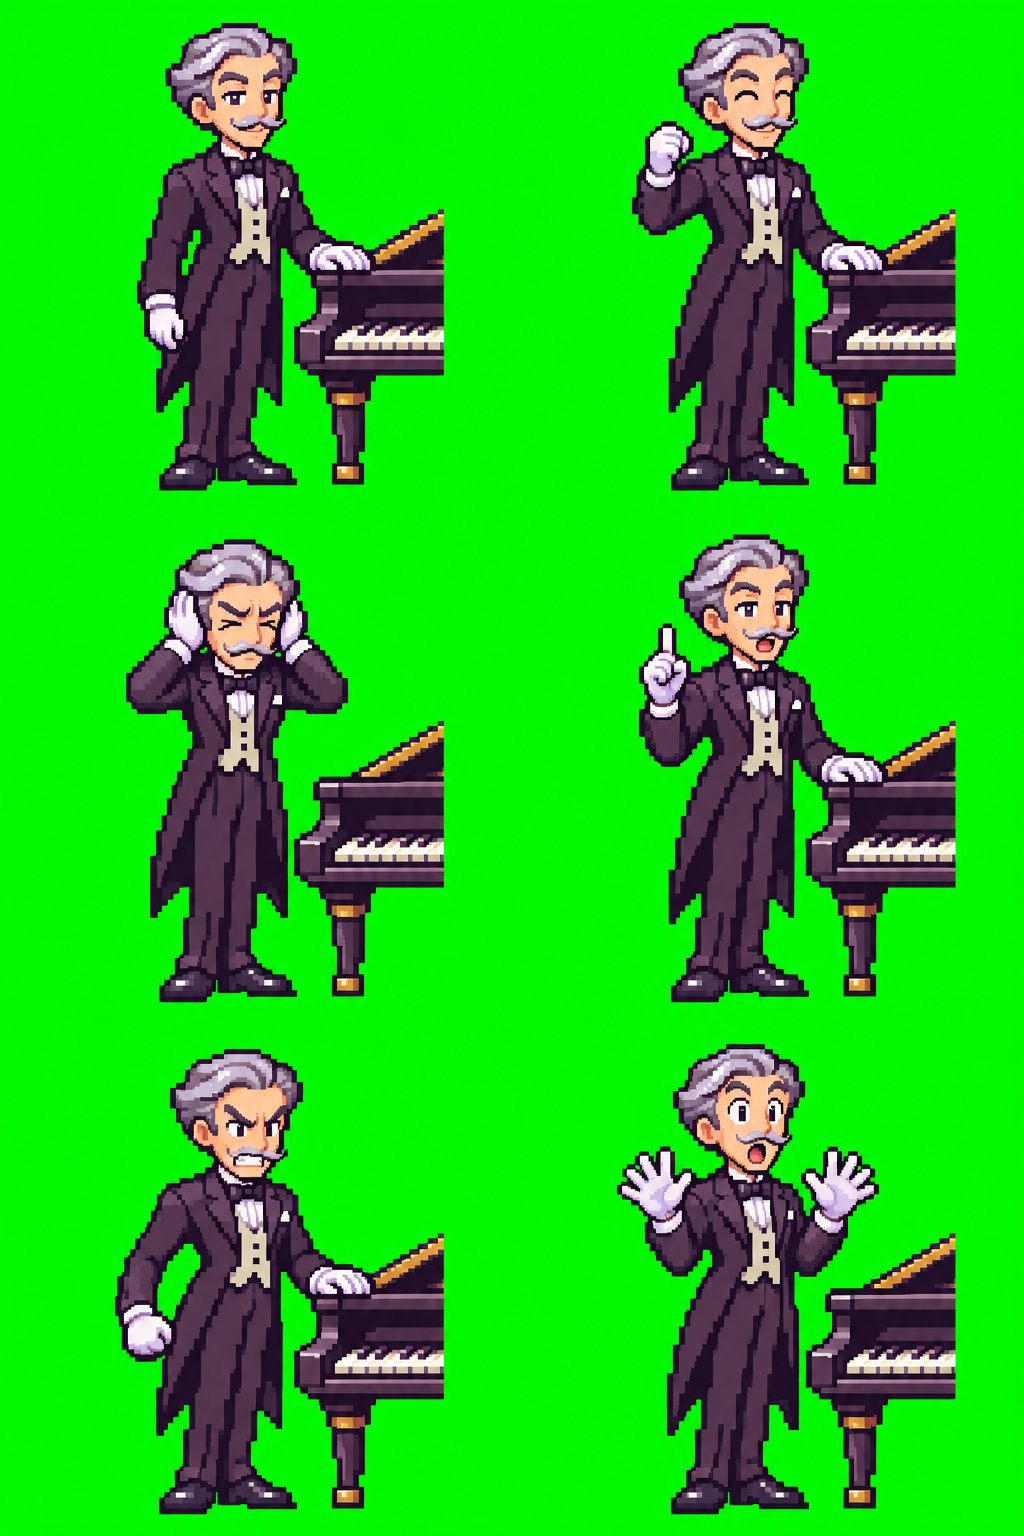
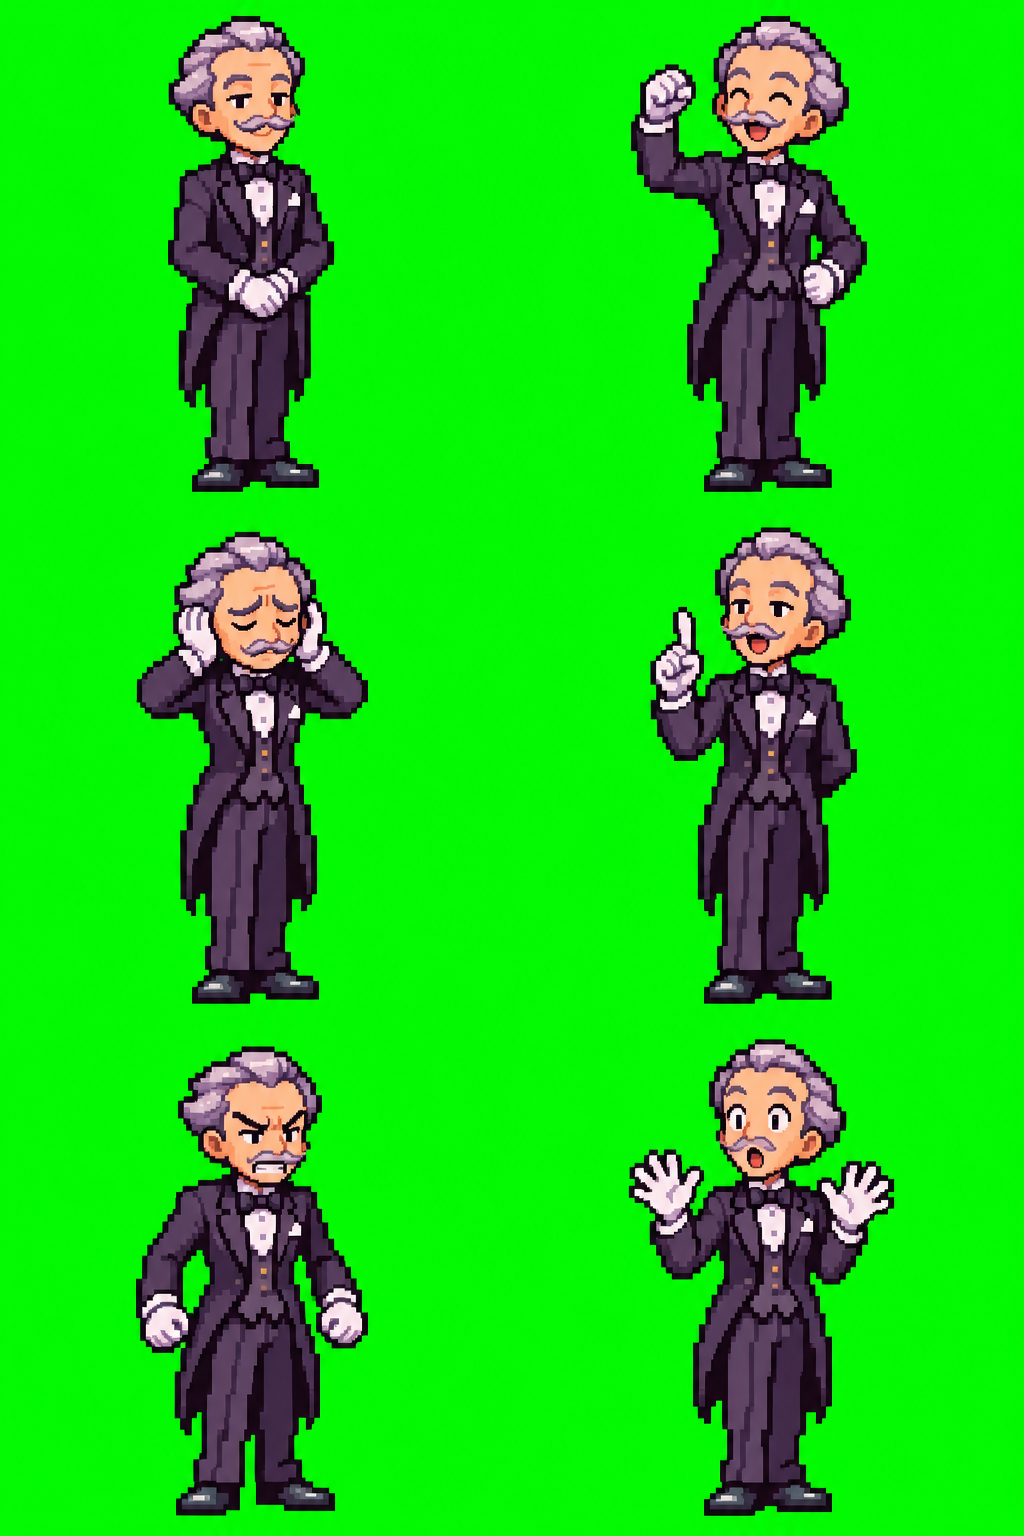
The theory master is Alfred, with the user's new sprite sheet

Changed region(s): [[0.5938, 0.0, 0.9375, 1.0], [0.0938, 0.0, 0.4375, 1.0]]

diff --git a/src/fretwise.html b/src/fretwise.html
@@ -6336,7 +6336,7 @@ const MASTERS={
  neck:{n:'John',spr:'neck',pos:[440,545],h:186,role:'Fretboard',
   voice:'a gentle, barefoot, spiritual rock guitarist. Soft-spoken and sincere; talks about knowing the neck so completely that you can forget it and just listen; simplicity, touch, patience.',
   say:{ok:['Yeah. You saw it before you played it.','Beautiful.','That is it.'],miss:['No hurry. Look for the octave.','Breathe. Say the name first.','It is right next to one you know.'],streak:['You are not counting any more. Feel that?','It is opening up.'],unlock:['A new part of the neck. Go slowly.'],start:['Say each note before your hand moves.'],end:['That was real practice.','Let it settle.']}},
- theory:{n:'Albert',spr:'theory',pos:[1183,592],h:190,role:'Theory',
+ theory:{n:'Alfred',spr:'theory',pos:[1183,592],h:190,role:'Theory',
   voice:'an elderly English butler who is also a fine pianist. Formal, exact, dry wit, calls the student “sir”; treats harmony as good manners: everything spelled correctly, nothing calculated at the table.',
   say:{ok:['Quite right, sir.','Correct.','Precisely.'],miss:['Not quite, sir. Spell it by letters.','A moment’s thought, sir.','The third, sir. Mind the third.'],streak:['Admirable, sir.','One begins to suspect you have been studying.'],unlock:['The next chapter, sir.'],start:['When you are ready, sir.'],end:['A profitable session, sir.','That will do for today.']}},
  voicings:{n:'Joe',spr:'voicings',pos:[1010,790],h:178,role:'Voicings & Grips',

diff --git a/tools/sprites.py b/tools/sprites.py
@@ -15,8 +15,6 @@ def key(a):
 for src in sorted((root/'art-src').glob('*.png')):
     a=key(np.array(Image.open(src).convert('RGB')));H,W=a.shape[:2];ch,cw=H//3,W//2
     cells=[a[r*ch:(r+1)*ch,c*cw:(c+1)*cw].copy() for r in range(3) for c in range(2)]
-    if src.stem=='theory':   # his own piano goes: he stands at the castle's
-        for c in cells:c[198:,297:,3]=0
     al=np.max([c[...,3] for c in cells],axis=0);ys,xs=np.where(al>0);x0,x1,y0,y1=xs.min(),xs.max()+1,ys.min(),ys.max()+1
     side=max(x1-x0,y1-y0)+8;cx=(x0+x1)//2;L=max(0,min(cw-side,cx-side//2));T=max(0,y1+4-side)
     sheet=Image.new('RGBA',(F*6,F))

diff --git a/CLAUDE.md b/CLAUDE.md
@@ -7,6 +7,9 @@ Guitar music-theory, ear-training, rhythm and microphone trainer for an aspiring
 - **Offline file:** `dist/fretwise.html` (built by `build.py`, piano embedded, git-ignored). Open from disk in Chrome.
 - **Pedagogical review** that drove the roadmap: https://claude.ai/artifact/7emdzZtQ8s6Eb2FDthZEUL
 
+## Alfred (19 Nov 2026, user: “replace Alfred with this”)
+The theory master is **Alfred** (was Albert; the user had not named him before). New sheet from the user (`art-src/theory.png`, 1024×1536, six poses, no piano of his own), so `tools/sprites.py` no longer masks a piano out of the theory cells. Older notes that say “Albert” mean him.
+
 ## The blues route (18 Nov 2026, user: “I want to study the blues / Frusciante / Hendrix route as well… please add them, don't add double stops and fills”; snapshot before it: tag `v-2026-11-18-before-blues-route`; 40 games)
 A second road beside the jazz goals; the user is “fully ok” with it shifting priorities. Four additions; **Double Stops and Fills was offered and declined.**
 - **Blues Boxes** (`boxes`, neck, mic, 7 levels, COURSE 101, life/core): `penBox(rp,k)` = box k of the minor pentatonic: twelve notes in a row from the k-th scale note on string 6, two to a string (`BX_PENT`; `PENT` already existed as an object — name clash caught by the syntax check). `boxScale(rp,k,semis,wide)` = another scale inside the box's frets (blues scale; major pentatonic with one fret more below). `boxQ({boxes,scale,join,mix,div,roots})`: up and back; `join` = this box up, the next down; `mix` = minor up, major down in the same place. Over the I7 chord (`q.vamp`, shell voicing). Levels: box 1 · 2 and 3 · 4 and 5 · from box to box · the blue note · major and minor in one place · eighths and triplets. Sweep: A's five boxes equal the standard shapes (5-8 5-7 5-7 5-7 5-8 5-8 …), every box in every key, the blues and major shapes in A.
